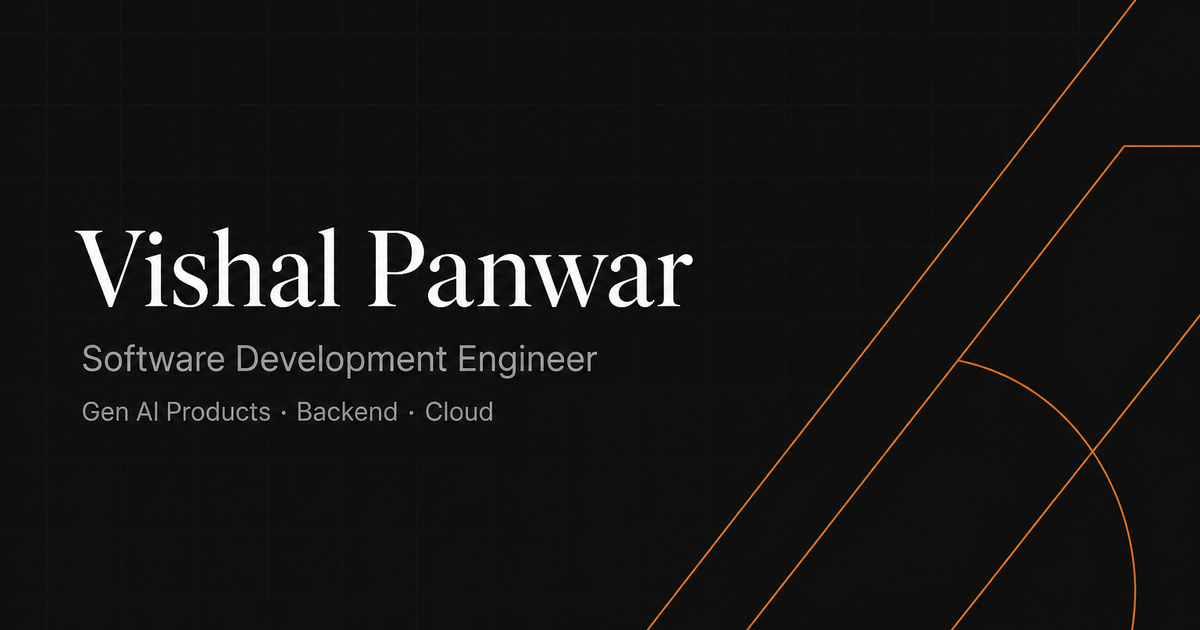
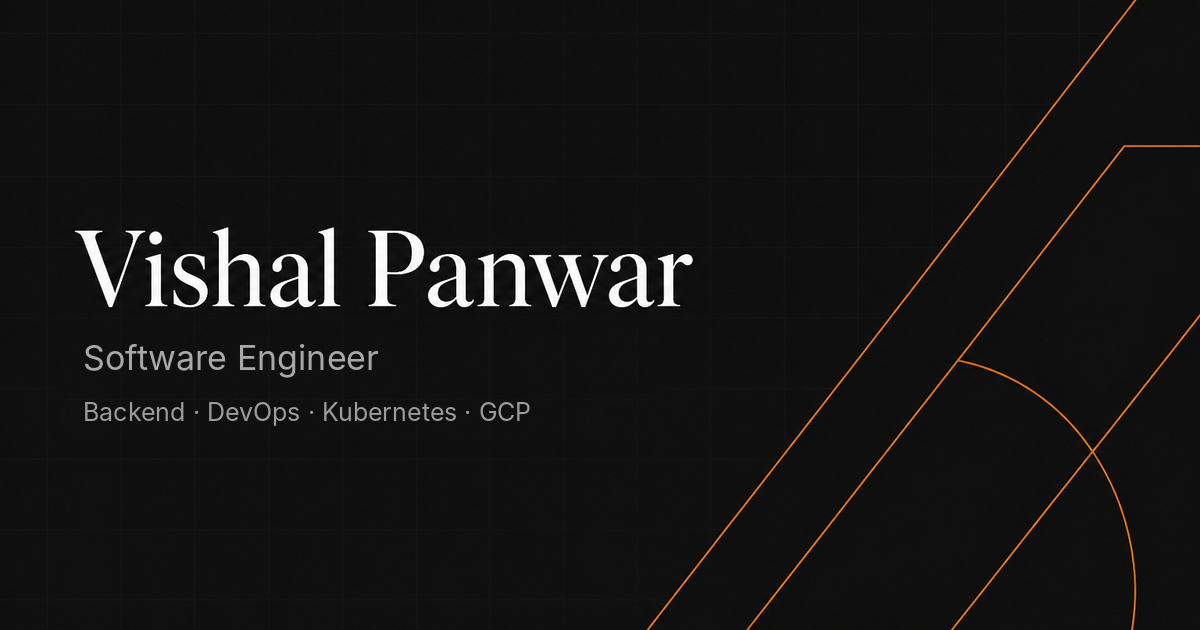
SEO: present as Software Engineer across backend and DevOps
Update page title, meta and Open Graph tags, JSON-LD, manifest and the
og-image subtitle so link previews read Software Engineer · Backend · DevOps.

Changed region(s): [[0.0617, 0.5429, 0.4933, 0.6032], [0.0617, 0.6333, 0.4625, 0.6937]]

diff --git a/public/index.html b/public/index.html
@@ -14,10 +14,10 @@
     <link rel="preconnect" href="https://fonts.gstatic.com" crossorigin />
 
     <!-- Primary Meta Tags -->
-    <title>Vishal Panwar | Software Development Engineer | Gen AI Products · Backend</title>
-    <meta name="title" content="Vishal Panwar | Software Development Engineer | Gen AI Products · Backend" />
-    <meta name="description" content="Vishal Panwar — Software Development Engineer shipping Gen AI products and AI applications with Go, Next.js, and GCP. 2+ years at Bluecopa, Discovr.ai, Implere Tech, and Cognizant. Based in Hyderabad, open to remote." />
-    <meta name="keywords" content="Vishal Panwar, Gen AI, AI Applications, Software Development Engineer, Backend Engineer, Go Developer, Golang, Next.js, GCP, Kubernetes, LLM, AI Engineer, Portfolio, Hyderabad, Remote" />
+    <title>Vishal Panwar | Software Engineer | Backend · DevOps · SRE</title>
+    <meta name="title" content="Vishal Panwar | Software Engineer | Backend · DevOps · SRE" />
+    <meta name="description" content="Vishal Panwar — software engineer with 2+ years building Go and Next.js services and running them on production Kubernetes on GCP with Terraform, Helm and ArgoCD at Bluecopa. Based in Hyderabad, open to remote and hybrid roles." />
+    <meta name="keywords" content="Vishal Panwar, Software Engineer, Backend Engineer, DevOps Engineer, SRE, Site Reliability Engineer, Platform Engineer, Kubernetes, GKE, Terraform, Helm, ArgoCD, GCP, AWS, Prometheus, Grafana, CI/CD, Go, Golang, Next.js, Python, Portfolio, Hyderabad, Remote" />
     <meta name="author" content="Vishal Panwar" />
     <meta name="creator" content="Vishal Panwar" />
     <meta name="publisher" content="Vishal Panwar" />
@@ -39,24 +39,24 @@
     <!-- Open Graph -->
     <meta property="og:type" content="website" />
     <meta property="og:url" content="https://vishalpanwar.in/" />
-    <meta property="og:title" content="Vishal Panwar | Gen AI · Backend · Cloud Engineer" />
-    <meta property="og:description" content="Building and shipping Gen AI products and AI applications with Go, Next.js, and GCP. 2+ years shipping production systems." />
+    <meta property="og:title" content="Vishal Panwar | Software Engineer · Backend · DevOps" />
+    <meta property="og:description" content="Building Go and Next.js services and running them on production Kubernetes on GCP with Terraform, Helm, ArgoCD, Prometheus and Grafana. 2+ years at Bluecopa." />
     <meta property="og:image" content="https://vishalpanwar.in/og-image.png" />
     <meta property="og:image:secure_url" content="https://vishalpanwar.in/og-image.png" />
     <meta property="og:image:type" content="image/png" />
     <meta property="og:image:width" content="1200" />
     <meta property="og:image:height" content="630" />
-    <meta property="og:image:alt" content="Vishal Panwar — Software Development Engineer portfolio" />
+    <meta property="og:image:alt" content="Vishal Panwar — Software Engineer portfolio" />
     <meta property="og:site_name" content="Vishal Panwar" />
     <meta property="og:locale" content="en_IN" />
 
     <!-- Twitter / X -->
     <meta name="twitter:card" content="summary_large_image" />
     <meta name="twitter:url" content="https://vishalpanwar.in/" />
-    <meta name="twitter:title" content="Vishal Panwar | Gen AI · Backend · Cloud Engineer" />
-    <meta name="twitter:description" content="Building and shipping Gen AI products and AI applications with Go, Next.js, and GCP." />
+    <meta name="twitter:title" content="Vishal Panwar | Software Engineer · Backend · DevOps" />
+    <meta name="twitter:description" content="Building Go and Next.js services and running them on production Kubernetes on GCP." />
     <meta name="twitter:image" content="https://vishalpanwar.in/og-image.png" />
-    <meta name="twitter:image:alt" content="Vishal Panwar — Software Development Engineer portfolio" />
+    <meta name="twitter:image:alt" content="Vishal Panwar — Software Engineer portfolio" />
     <meta name="twitter:creator" content="@vishalpanwar416" />
     <meta name="twitter:site" content="@vishalpanwar416" />
 
@@ -69,8 +69,8 @@
       "name": "Vishal Panwar",
       "url": "https://vishalpanwar.in/",
       "image": "https://vishalpanwar.in/vishal-panwar.jpg",
-      "jobTitle": "Software Development Engineer",
-      "description": "Software Development Engineer shipping Gen AI products and AI applications with Go, Next.js, and GCP.",
+      "jobTitle": "Software Engineer (Backend and DevOps)",
+      "description": "Software engineer building Go and Next.js services and running them on production Kubernetes on GCP with Terraform, Helm and ArgoCD.",
       "email": "mailto:vishalpanwar416@gmail.com",
       "telephone": "+91-7500988212",
       "address": {
@@ -88,6 +88,13 @@
         "https://blinq.me/cTA1XtayJD14xDIFFz33"
       ],
       "knowsAbout": [
+        "Site Reliability Engineering",
+        "DevOps",
+        "Terraform",
+        "Helm",
+        "ArgoCD",
+        "Prometheus",
+        "Grafana",
         "Generative AI",
         "AI Applications",
         "Large Language Models",
@@ -123,7 +130,7 @@
       "@id": "https://vishalpanwar.in/#website",
       "name": "Vishal Panwar",
       "url": "https://vishalpanwar.in/",
-      "description": "Portfolio of Vishal Panwar — Software Development Engineer shipping Gen AI products and AI applications.",
+      "description": "Portfolio of Vishal Panwar — software engineer working across backend development and DevOps on GCP and AWS.",
       "inLanguage": "en",
       "publisher": {
         "@id": "https://vishalpanwar.in/#person"
@@ -138,8 +145,8 @@
       "@type": "ProfilePage",
       "@id": "https://vishalpanwar.in/#profilepage",
       "url": "https://vishalpanwar.in/",
-      "name": "Vishal Panwar | Software Development Engineer",
-      "dateModified": "2026-07-19",
+      "name": "Vishal Panwar | Software Engineer · Backend · DevOps",
+      "dateModified": "2026-11-12",
       "mainEntity": {
         "@id": "https://vishalpanwar.in/#person"
       },
@@ -152,10 +159,10 @@
   <body>
     <noscript>
       <main>
-        <h1>Vishal Panwar — Software Development Engineer</h1>
+        <h1>Vishal Panwar — Software Engineer</h1>
         <p>
-          Portfolio of Vishal Panwar, a Software Development Engineer shipping Gen AI products
-          and AI applications with Go, Next.js, and GCP. Based in Hyderabad, India.
+          Portfolio of Vishal Panwar, a software engineer building Go and Next.js services and running them
+          on production Kubernetes on GCP with Terraform, Helm and ArgoCD. Based in Hyderabad, India.
           Enable JavaScript to view the full interactive experience, or contact
           <a href="mailto:vishalpanwar416@gmail.com">vishalpanwar416@gmail.com</a>.
         </p>

diff --git a/src/data/content.js b/src/data/content.js
@@ -96,11 +96,11 @@ export const sectionContent = {
 
   meta: {
     siteUrl: "https://vishalpanwar.in",
-    title: "Vishal Panwar | Software Development Engineer | Gen AI Products · Backend",
-    description: "Vishal Panwar — Software Development Engineer shipping Gen AI products and AI applications with Go, Next.js, and GCP. 2+ years at Bluecopa, Discovr.ai, Implere Tech, and Cognizant.",
-    keywords: "Vishal Panwar, Gen AI, AI Applications, Software Development Engineer, Backend Engineer, Go Developer, Golang, Next.js, GCP, Kubernetes, LLM, AI Engineer, Portfolio, Hyderabad, Remote",
-    ogTitle: "Vishal Panwar | Gen AI · Backend · Cloud Engineer",
-    ogDescription: "Building and shipping Gen AI products and AI applications with Go, Next.js, and GCP. 2+ years shipping production systems.",
+    title: "Vishal Panwar | Software Engineer | Backend · DevOps · SRE",
+    description: "Vishal Panwar — software engineer with 2+ years building Go and Next.js services and running them on production Kubernetes on GCP with Terraform, Helm and ArgoCD at Bluecopa. Based in Hyderabad, open to remote and hybrid roles.",
+    keywords: "Vishal Panwar, Software Engineer, Backend Engineer, DevOps Engineer, SRE, Site Reliability Engineer, Platform Engineer, Kubernetes, GKE, Terraform, Helm, ArgoCD, GCP, AWS, Prometheus, Grafana, CI/CD, Go, Golang, Next.js, Python, Portfolio, Hyderabad, Remote",
+    ogTitle: "Vishal Panwar | Software Engineer · Backend · DevOps",
+    ogDescription: "Building Go and Next.js services and running them on production Kubernetes on GCP with Terraform, Helm, ArgoCD, Prometheus and Grafana. 2+ years at Bluecopa.",
     ogImage: "https://vishalpanwar.in/og-image.png",
     twitterCard: "summary_large_image"
   },
